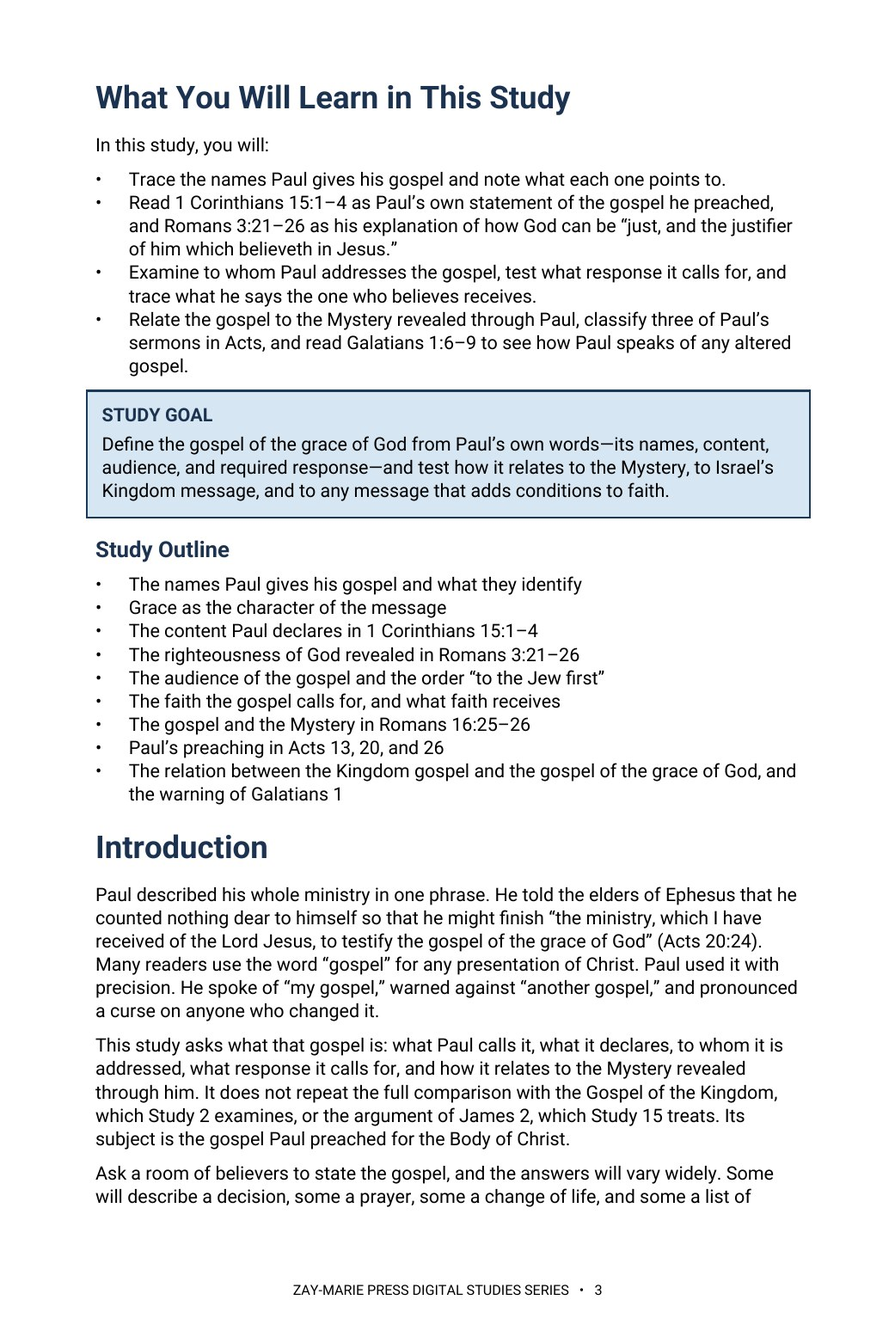
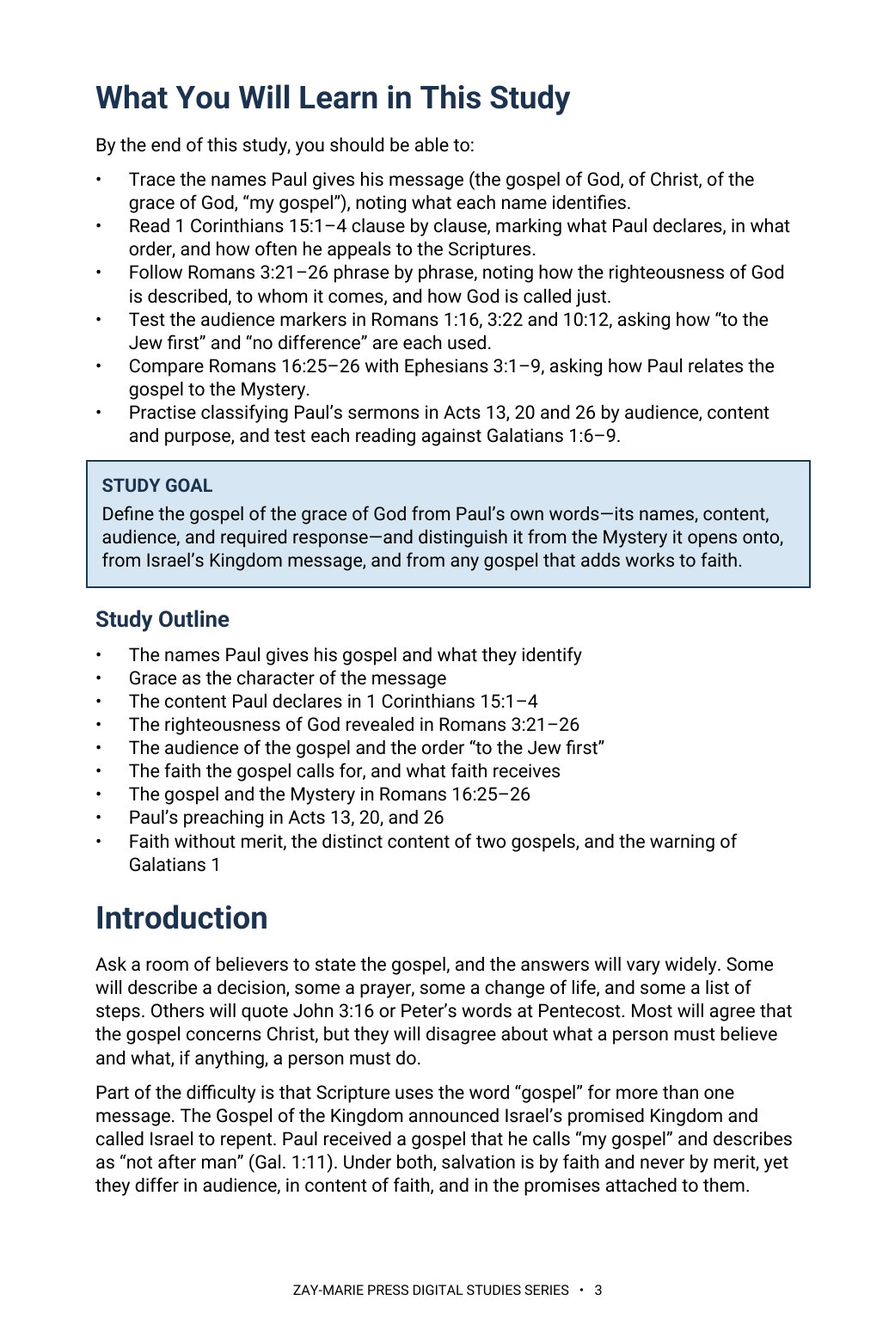
Study 43: rebuild in Roboto at 10 pt (17 pages), Rules 18/19 and structure, previews 2/3/8; trackers v1.72/v1.166
Claude-Session: https://claude.ai/code/session_01KcENxFzE91mCRyTPWhcwnE

Changed region(s): [[0.0922, 0.0922, 0.9222, 0.8912]]

diff --git a/study-43-the-gospel-of-the-grace-of-god.html b/study-43-the-gospel-of-the-grace-of-god.html
@@ -1,5 +1,5 @@
 <!doctype html>
 <html lang="en"><head><meta charset="utf-8"><meta name="viewport" content="width=device-width,initial-scale=1"><title>The Gospel of the Grace of God | Zay-Marie Press</title><meta name="description" content="Paul called it “my gospel.” Define its content from 1 Corinthians 15 and Romans 3, its audience, the faith it calls for, and how it relates to the Mystery revealed through him. Preview Study 43 from Zay-Marie Press."><link rel="stylesheet" href="styles.css?v=20260921-4"><link rel="icon" type="image/png" href="assets/zay-marie-press-favicon.png"><style>
 .study-detail-page{background:#fff;color:#252525}.detail-hero{background:linear-gradient(135deg,#f8f5ec,#e3ece2);padding:58px 0}.detail-hero-grid{display:grid;grid-template-columns:minmax(250px,.72fr) minmax(0,1.28fr);gap:58px;align-items:center}.detail-cover{max-width:390px;margin:auto}.detail-cover img{display:block;width:100%;height:auto;box-shadow:0 14px 36px rgba(8,45,69,.18)}.detail-hero h1{font-size:clamp(2.7rem,5vw,4.7rem);line-height:1.02;margin:8px 0 10px;color:#143823}.detail-subtitle{font-family:Georgia,serif;font-size:1.35rem;font-weight:700;color:#082d45;margin:0 0 7px}.detail-kicker{font-family:Georgia,serif;font-style:italic;font-size:1.05rem;color:#4a4a44;margin:0 0 22px}.detail-copy{font-size:1.08rem;line-height:1.65;max-width:760px}.detail-buyline{display:flex;align-items:center;gap:18px;flex-wrap:wrap;margin-top:25px}.detail-price{font-family:Georgia,serif;font-size:2rem;font-weight:700;color:#143823}.detail-format,.preview-card .page-no{font-family:Arial,sans-serif;font-size:.76rem;font-weight:700;letter-spacing:.1em;text-transform:uppercase;color:#176b3a}.detail-button{display:inline-block;background:#176b3a;color:#fff;padding:13px 22px;font-family:Arial,sans-serif;font-size:.8rem;font-weight:700;letter-spacing:.07em;text-transform:uppercase}.detail-button.pending{opacity:.72;cursor:default}.detail-section{padding:66px 0}.detail-section.soft{background:#f6f7f2}.detail-section.cream{background:#faf8f2}.detail-section h2{color:#143823;margin:6px 0 18px;font-size:clamp(2rem,3.4vw,3rem)}.detail-section .lead{max-width:920px;font-size:1.1rem;line-height:1.62}.study-distinction{max-width:920px;margin-top:28px;margin-bottom:28px;padding:26px 28px;background:#fff;border:1px solid #d8d1bf;border-left:4px solid #b8871c}.study-distinction h3{margin:0 0 10px;color:#143823}.study-distinction p{margin:0 0 14px;line-height:1.62}.study-distinction a{font-family:Arial,sans-serif;font-weight:700;color:#176b3a;text-decoration:none}.study-points{display:grid;grid-template-columns:repeat(3,1fr);gap:18px;margin-top:28px;margin-bottom:28px}.study-point,.scripture-card,.preview-card,.include-item{background:#fff;border:1px solid var(--line);text-align:left}.study-point{border-top:3px solid #176b3a;padding:22px}.study-point h3{color:#143823;margin:0 0 8px;font-size:1.2rem}.study-point p,.scripture-card p,.preview-card p,.include-item p{margin:0;line-height:1.55}.scripture-grid{display:grid;grid-template-columns:repeat(4,1fr);gap:14px;margin-top:24px;margin-bottom:24px}.scripture-card{padding:22px 20px;color:#143823}.scripture-card h3{margin:0 0 9px;font-family:Georgia,serif;font-size:1rem;line-height:1.35}.scripture-card p{font-size:.94rem;color:#45453f}.excerpt{max-width:900px;margin:28px auto;border-left:4px solid #b8871c;padding:10px 0 10px 28px}.excerpt blockquote{font-family:Georgia,serif;font-size:clamp(1.45rem,2.5vw,2rem);line-height:1.45;color:#143823;margin:0 0 16px}.excerpt p{line-height:1.6;margin:0}.preview-grid{display:grid;grid-template-columns:repeat(3,1fr);gap:20px;margin-top:28px;margin-bottom:28px}.preview-card{padding:18px;min-height:210px;box-shadow:0 7px 20px rgba(20,40,25,.05)}.preview-image-link{display:block;margin:0 0 18px}.preview-image-link img{display:block;width:100%;height:auto;border:1px solid #d8d1bf;box-shadow:0 8px 22px rgba(20,40,25,.1);transition:transform .18s ease,box-shadow .18s ease}.preview-image-link:hover img{transform:translateY(-2px);box-shadow:0 11px 28px rgba(20,40,25,.16)}.preview-card h3{color:#143823;margin:8px 0 10px}.preview-instruction{margin:10px 0 0;font-family:Arial,sans-serif;font-size:.78rem;letter-spacing:.04em;color:#5b5b55}.includes-grid{display:grid;grid-template-columns:repeat(4,1fr);gap:14px;margin-top:26px}.include-item{padding:22px 20px;color:#143823}.include-item h3{margin:0 0 9px;font-family:Arial,sans-serif;font-size:.86rem;line-height:1.35;letter-spacing:.02em}.include-item p{font-size:.94rem;color:#45453f}.final-buy{background:#082d45;color:#fff;border-top:4px solid #b8871c;padding:42px 48px;display:grid;grid-template-columns:1fr auto;gap:36px;align-items:center}.final-buy .eyebrow,.final-buy h2,.final-buy .detail-price{color:#fff}.final-buy h2{margin:7px 0 6px}.final-buy p{margin:0}.final-offer{text-align:center}.back-link{display:inline-block;margin-top:18px;color:#143823;font-family:Arial,sans-serif;font-weight:700;text-decoration:none}.preview-lightbox{position:fixed;inset:0;z-index:10000;display:none;align-items:flex-start;justify-content:center;background:rgba(8,22,16,.88);padding:24px;overflow:auto}.preview-lightbox.open{display:flex}.preview-lightbox img{display:block;width:auto;height:auto;max-width:none;box-shadow:0 18px 55px rgba(0,0,0,.4);background:#fff}.preview-lightbox-close{position:fixed;top:18px;right:24px;z-index:10001;width:46px;height:46px;border:1px solid rgba(255,255,255,.65);border-radius:50%;background:rgba(0,0,0,.55);color:#fff;font:32px/1 Arial,sans-serif;cursor:pointer}@media(max-width:900px){.detail-hero-grid{grid-template-columns:1fr;gap:34px}.detail-cover{max-width:330px}.study-points{grid-template-columns:repeat(2,1fr)}.scripture-grid,.includes-grid{grid-template-columns:repeat(2,1fr)}.preview-grid,.final-buy{grid-template-columns:1fr}.final-offer{text-align:left}}@media(max-width:560px){.detail-hero{padding:42px 0}.detail-section{padding:50px 0}.study-points,.scripture-grid,.includes-grid{grid-template-columns:1fr}.final-buy{padding:32px 24px}.detail-buyline{align-items:flex-start;flex-direction:column;gap:8px}.preview-lightbox{padding:58px 10px 24px}.preview-lightbox img{width:100%;max-width:100%;height:auto}} .detail-hero h1{font-size:clamp(2.1rem,4.2vw,3.7rem);line-height:1.08}</style></head><body class="study-detail-page">
-<header class="site-header"><div class="wrap nav"><a class="logo" href="index.html" aria-label="Zay-Marie Press home"><img src="assets/zay-marie-press-logo-hq.png" alt="Zay-Marie Press" width="420" height="238"></a><button class="menu-toggle" type="button" aria-expanded="false" aria-controls="primary-nav">MENU</button><nav aria-label="Primary navigation" class="primary-nav" id="primary-nav"><a href="index.html">HOME</a><a href="books.html">BOOKS</a><a href="series.html">SERIES</a><a class="active" aria-current="page" href="digital-studies.html">DIGITAL STUDIES</a><a href="biblical-hermeneutics-course.html">COURSE</a><a href="about.html">ABOUT</a><a href="resources.html">RESOURCES</a><a href="contact.html">CONTACT</a></nav></div></header><main><section class="detail-hero"><div class="wrap detail-hero-grid"><div class="detail-cover"><picture><source srcset="assets/study-43-cover.webp" type="image/webp"><img src="assets/study-43-cover.jpg" alt="The Gospel of the Grace of God — Study 43 cover"></picture></div><div><div class="eyebrow">STUDY 43 · DIGITAL STUDY</div><h1>The Gospel of the Grace of God</h1><p class="detail-subtitle">Paul’s Gospel: Its Content, Its Audience, and the Faith It Calls For</p><p class="detail-kicker">A Biblical Definition of Paul’s Gospel — Its Names, Its Content, Its Audience, and the Faith It Calls For</p><p class="detail-copy">Paul described his whole ministry in one phrase. He told the elders of Ephesus that he counted nothing dear to himself so that he might finish “the ministry, which I have received of the Lord Jesus, to testify the gospel of the grace of God” (Acts 20:24). Many readers use the word “gospel” for any presentation of Christ. Paul used it with precision. He spoke of “my gospel,” warned against “another gospel,” and pronounced a curse on anyone who changed it.</p><p class="detail-copy">This study asks what that gospel is: what Paul calls it, what it declares, to whom it is addressed, what response it calls for, and how it relates to the Mystery revealed through him. It does not repeat the full comparison with the Gospel of the Kingdom, which Study 2 examines, or the argument of James 2, which Study 15 treats.</p><div class="detail-buyline"><span class="detail-price">$5.99</span><span class="detail-format">Digital PDF · 20 Pages</span><span class="detail-button pending" aria-disabled="true">Checkout Coming Soon</span></div></div></div></section><section class="detail-section"><div class="wrap"><div class="eyebrow">ABOUT THIS STUDY</div><h2>One Gospel, Defined With Precision</h2><p class="lead">Paul spoke of his gospel with exact language: its names, its content, its audience, and the response it calls for. Reading those distinctions in order removes the vagueness that lets “gospel” mean whatever a reader assumes.</p><p class="lead">This study follows Paul’s own words rather than a general definition. It states what he calls the message, what 1 Corinthians 15:1–4 declares as its content, how Romans 3:21–26 explains the righteousness it reveals, and why he treated any addition to faith as grounds for a curse.</p><p class="lead">This is not a study of the Kingdom message Israel was called to believe, which Study 2 defines on its own terms, nor of the Mystery’s full revealed content, which Study 6 identifies separately, nor of when the Body itself began, which Study 11 asks directly. Its task is narrower: to hold Paul’s gospel to his own stated terms rather than a general definition of the word, and to show why treating it as one more variation on a message announced to Israel empties his own distinctions of their force.</p><div class="study-distinction"><h3>How These Studies Relate</h3><p>Study 43 defines the gospel Paul preached for the Body of Christ — its names, its content, its audience, and the faith it calls for.</p><p><a href="study-02-the-gospel-of-the-kingdom.html">Study 2 — The Gospel of the Kingdom</a> Read the Kingdom message Israel was called to believe; this study distinguishes it from Paul’s gospel without merging their audiences, content, or programmatic authority.</p><p><a href="study-06-the-mystery-revealed-through-paul.html">Study 6 — The Mystery Revealed Through Paul</a> Examine the previously hidden truth Paul was given to reveal; this study relates that Mystery to the gospel he preached without collapsing the two.</p><p><a href="study-11-the-beginning-of-the-body-of-christ.html">Study 11 — The Beginning of the Body of Christ</a> Ask when the Body began; this study identifies the gospel by which its members are justified, reconciled, and placed into that Body.</p><p class="connection-guide-link"><a href="study-connections.html#study-43">Explore the full connection guide for Study 43 →</a></p></div></div></section><section class="detail-section soft"><div class="wrap"><div class="eyebrow">WHAT YOU’LL STUDY</div><h2>Define the Gospel From Paul’s Own Words</h2><div class="study-points"><div class="study-point"><h3>The Names Paul Gives It</h3><p>See what “the gospel of God,” “the gospel of Christ,” “the gospel of the grace of God,” and “my gospel” each identify.</p></div><div class="study-point"><h3>Grace as Its Character</h3><p>Define grace by contrast with debt, and test what that definition means for every earned addition.</p></div><div class="study-point"><h3>Its Content: 1 Corinthians 15</h3><p>State the three facts Paul names as of first importance: died, buried, rose again.</p></div><div class="study-point"><h3>Its Ground: Romans 3:21–26</h3><p>See how God is both just and the justifier through the propitiation in Christ’s blood.</p></div><div class="study-point"><h3>Its Audience and Its Faith</h3><p>Read to whom Paul addresses the gospel, what response it calls for, and what he says the one who believes receives.</p></div><div class="study-point"><h3>The Gospel and the Mystery</h3><p>Test how the gospel relates to the Mystery revealed through Paul.</p></div></div></div></section><section class="detail-section cream"><div class="wrap"><div class="eyebrow">KEY SCRIPTURES</div><h2>Examine the Passages for Yourself</h2><div class="scripture-grid"><div class="scripture-card"><h3>Acts 20:24</h3><p>Paul names the message he counted his whole ministry to testify: “the gospel of the grace of God.”</p></div><div class="scripture-card"><h3>1 Corinthians 15:3–4</h3><p>Christ died, was buried, and rose again “according to the scriptures” — the gospel’s content stated in three clauses.</p></div><div class="scripture-card"><h3>Romans 3:21–26</h3><p>The righteousness of God is manifested, so that He is both just and the justifier of the one who believes.</p></div><div class="scripture-card"><h3>Romans 1:16</h3><p>“To the Jew first, and also to the Greek” — the gospel’s audience and the order of its address.</p></div><div class="scripture-card"><h3>Romans 4:5</h3><p>“To him that worketh not, but believeth” — faith alone, without works, counted for righteousness.</p></div><div class="scripture-card"><h3>Ephesians 1:13–14</h3><p>The one who believes is sealed with the Holy Spirit, the earnest of the inheritance.</p></div><div class="scripture-card"><h3>Romans 16:25–26</h3><p>The gospel opens onto “the revelation of the mystery” made known through Paul.</p></div><div class="scripture-card"><h3>Galatians 1:6–9</h3><p>Paul’s warning against preaching “another gospel” to the churches of Galatia.</p></div></div></div></section><section class="detail-section"><div class="wrap"><div class="eyebrow">FROM THE STUDY</div><h2>Foretold, Yet Hidden</h2><div class="excerpt"><blockquote>“Foretold facts ≠ the hidden purpose revealed through Paul.”</blockquote><p>The gospel’s content was written beforehand in the Law and the Prophets. The Mystery Paul was given to reveal is a distinct truth, previously hidden and revealed through him — related in subject, but never merged.</p></div></div></section><section class="detail-section soft"><div class="wrap"><div class="eyebrow">A LOOK INSIDE</div><h2>Preview the Study Before You Purchase</h2><p class="preview-instruction">Click any page to enlarge it for reading.</p><div class="preview-grid"><div class="preview-card"><a class="preview-image-link" data-preview-lightbox href="assets/study-43-page-2.jpg"><img src="assets/study-43-page-2.jpg" alt="Study 43 interior preview — page 2, table of contents"/></a><div class="page-no">Page 2</div><h3>Table of Contents</h3><p>See the full structure of the study, from the introduction through the final synthesis.</p></div><div class="preview-card"><a class="preview-image-link" data-preview-lightbox href="assets/study-43-page-3.jpg"><img src="assets/study-43-page-3.jpg" alt="Study 43 interior preview — page 3, what you will learn"/></a><div class="page-no">Page 3</div><h3>What You Will Learn</h3><p>See the study’s goals, controls, and central question at a glance.</p></div><div class="preview-card"><a class="preview-image-link" data-preview-lightbox href="assets/study-43-page-10.jpg"><img src="assets/study-43-page-10.jpg" alt="Study 43 interior preview — page 10, the gospel’s audience: no difference and “to the Jew first”"/></a><div class="page-no">Page 10</div><h3>To Whom the Gospel Is Addressed</h3><p>See how the study reads “no difference” and “to the Jew first” in Paul’s own words.</p></div></div></div></section><section class="detail-section"><div class="wrap"><div class="eyebrow">WHAT’S INCLUDED</div><h2>A Focused Study Built for<br>Understanding and Teaching</h2><div class="includes-grid"><div class="include-item"><h3>20-Page In-Depth Biblical Study</h3><p>A careful definition of the gospel Paul preached for the Body of Christ.</p></div><div class="include-item"><h3>11 Core Teaching Sections</h3><p>Progress from the gospel’s names through its content, ground, audience, and its relation to the Mystery.</p></div><div class="include-item"><h3>Five Reference Tables</h3><p>Compare the names of the gospel, test common additions to faith against Paul’s own words, and read key passages side by side in the KJV.</p></div><div class="include-item"><h3>16 Review Questions</h3><p>Test the study’s distinctions concerning content, audience, faith, and the Mystery.</p></div><div class="include-item"><h3>Teaching Outline</h3><p>A ready ten-point framework for teaching the gospel of the grace of God with precision.</p></div><div class="include-item"><h3>Guided Further Study</h3><p>Return to the gospel’s names, its content, its audience, and the Mystery with directed questions.</p></div><div class="include-item"><h3>Scripture-Tracing Exercise</h3><p>Trace the gospel’s key terms across Paul’s letters in their own context.</p></div><div class="include-item"><h3>Final Synthesis Exercise</h3><p>Bring the evidence together in one coherent, Scripture-based explanation.</p></div></div></div></section><section class="detail-section cream"><div class="wrap"><div class="final-buy"><div><div class="eyebrow">STUDY 43 · DIGITAL STUDY</div><h2>The Gospel of the Grace of God</h2><p>20-page digital PDF · For personal use</p></div><div class="final-offer"><div class="detail-price">$5.99</div><span class="detail-button pending" aria-disabled="true">Checkout Coming Soon</span></div></div><a class="back-link" href="digital-studies.html">← Back to All Digital Studies</a></div></section><section class="study-method-course-bridge"><div class="wrap"><div class="study-method-course-panel"><div><div class="eyebrow">BUILD THE INTERPRETIVE METHOD</div><h2>Want More Than a Focused Study?</h2><p>Digital Studies examine particular biblical subjects and difficult passages. The 40-lesson Biblical Hermeneutics course teaches a complete, repeatable method for establishing meaning in context, determining proper assignment, and making responsible application.</p></div><a class="btn btn-primary" href="biblical-hermeneutics-course.html">BIBLICAL HERMENEUTICS COURSE</a></div></div></section></main>
+<header class="site-header"><div class="wrap nav"><a class="logo" href="index.html" aria-label="Zay-Marie Press home"><img src="assets/zay-marie-press-logo-hq.png" alt="Zay-Marie Press" width="420" height="238"></a><button class="menu-toggle" type="button" aria-expanded="false" aria-controls="primary-nav">MENU</button><nav aria-label="Primary navigation" class="primary-nav" id="primary-nav"><a href="index.html">HOME</a><a href="books.html">BOOKS</a><a href="series.html">SERIES</a><a class="active" aria-current="page" href="digital-studies.html">DIGITAL STUDIES</a><a href="biblical-hermeneutics-course.html">COURSE</a><a href="about.html">ABOUT</a><a href="resources.html">RESOURCES</a><a href="contact.html">CONTACT</a></nav></div></header><main><section class="detail-hero"><div class="wrap detail-hero-grid"><div class="detail-cover"><picture><source srcset="assets/study-43-cover.webp" type="image/webp"><img src="assets/study-43-cover.jpg" alt="The Gospel of the Grace of God — Study 43 cover"></picture></div><div><div class="eyebrow">STUDY 43 · DIGITAL STUDY</div><h1>The Gospel of the Grace of God</h1><p class="detail-subtitle">Paul’s Gospel: Its Content, Its Audience, and the Faith It Calls For</p><p class="detail-kicker">A Biblical Definition of Paul’s Gospel — Its Names, Its Content, Its Audience, and the Faith It Calls For</p><p class="detail-copy">Paul described his whole ministry in one phrase. He told the elders of Ephesus that he counted nothing dear to himself so that he might finish “the ministry, which I have received of the Lord Jesus, to testify the gospel of the grace of God” (Acts 20:24). Many readers use the word “gospel” for any presentation of Christ. Paul used it with precision. He spoke of “my gospel,” warned against “another gospel,” and pronounced a curse on anyone who changed it.</p><p class="detail-copy">This study asks what that gospel is: what Paul calls it, what it declares, to whom it is addressed, what response it calls for, and how it relates to the Mystery revealed through him. It does not repeat the full comparison with the Gospel of the Kingdom, which Study 2 examines, or the argument of James 2, which Study 15 treats.</p><div class="detail-buyline"><span class="detail-price">$5.99</span><span class="detail-format">Digital PDF · 17 Pages</span><span class="detail-button pending" aria-disabled="true">Checkout Coming Soon</span></div></div></div></section><section class="detail-section"><div class="wrap"><div class="eyebrow">ABOUT THIS STUDY</div><h2>One Gospel, Defined With Precision</h2><p class="lead">Paul spoke of his gospel with exact language: its names, its content, its audience, and the response it calls for. Reading those distinctions in order removes the vagueness that lets “gospel” mean whatever a reader assumes.</p><p class="lead">This study follows Paul’s own words rather than a general definition. It states what he calls the message, what 1 Corinthians 15:1–4 declares as its content, how Romans 3:21–26 explains the righteousness it reveals, and why he treated any addition to faith as grounds for a curse.</p><p class="lead">This is not a study of the Kingdom message Israel was called to believe, which Study 2 defines on its own terms, nor of the Mystery’s full revealed content, which Study 6 identifies separately, nor of when the Body itself began, which Study 11 asks directly. Its task is narrower: to hold Paul’s gospel to his own stated terms rather than a general definition of the word, and to show why treating it as one more variation on a message announced to Israel empties his own distinctions of their force.</p><div class="study-distinction"><h3>How These Studies Relate</h3><p>Study 43 defines the gospel Paul preached for the Body of Christ — its names, its content, its audience, and the faith it calls for.</p><p><a href="study-02-the-gospel-of-the-kingdom.html">Study 2 — The Gospel of the Kingdom</a> Read the Kingdom message Israel was called to believe; this study distinguishes it from Paul’s gospel without merging their audiences, content, or programmatic authority.</p><p><a href="study-06-the-mystery-revealed-through-paul.html">Study 6 — The Mystery Revealed Through Paul</a> Examine the previously hidden truth Paul was given to reveal; this study relates that Mystery to the gospel he preached without collapsing the two.</p><p><a href="study-11-the-beginning-of-the-body-of-christ.html">Study 11 — The Beginning of the Body of Christ</a> Ask when the Body began; this study identifies the gospel by which its members are justified, reconciled, and placed into that Body.</p><p class="connection-guide-link"><a href="study-connections.html#study-43">Explore the full connection guide for Study 43 →</a></p></div></div></section><section class="detail-section soft"><div class="wrap"><div class="eyebrow">WHAT YOU’LL STUDY</div><h2>Define the Gospel From Paul’s Own Words</h2><div class="study-points"><div class="study-point"><h3>The Names Paul Gives It</h3><p>See what “the gospel of God,” “the gospel of Christ,” “the gospel of the grace of God,” and “my gospel” each identify.</p></div><div class="study-point"><h3>Grace as Its Character</h3><p>Define grace by contrast with debt, and test what that definition means for every earned addition.</p></div><div class="study-point"><h3>Its Content: 1 Corinthians 15</h3><p>State the three facts Paul names as of first importance: died, buried, rose again.</p></div><div class="study-point"><h3>Its Ground: Romans 3:21–26</h3><p>See how God is both just and the justifier through the propitiation in Christ’s blood.</p></div><div class="study-point"><h3>Its Audience and Its Faith</h3><p>Read to whom Paul addresses the gospel, what response it calls for, and what he says the one who believes receives.</p></div><div class="study-point"><h3>The Gospel and the Mystery</h3><p>Test how the gospel relates to the Mystery revealed through Paul.</p></div></div></div></section><section class="detail-section cream"><div class="wrap"><div class="eyebrow">KEY SCRIPTURES</div><h2>Examine the Passages for Yourself</h2><div class="scripture-grid"><div class="scripture-card"><h3>Acts 20:24</h3><p>Paul names the message he counted his whole ministry to testify: “the gospel of the grace of God.”</p></div><div class="scripture-card"><h3>1 Corinthians 15:3–4</h3><p>Christ died, was buried, and rose again “according to the scriptures” — the gospel’s content stated in three clauses.</p></div><div class="scripture-card"><h3>Romans 3:21–26</h3><p>The righteousness of God is manifested, so that He is both just and the justifier of the one who believes.</p></div><div class="scripture-card"><h3>Romans 1:16</h3><p>“To the Jew first, and also to the Greek” — the gospel’s audience and the order of its address.</p></div><div class="scripture-card"><h3>Romans 4:5</h3><p>“To him that worketh not, but believeth” — faith alone, without works, counted for righteousness.</p></div><div class="scripture-card"><h3>Ephesians 1:13–14</h3><p>The one who believes is sealed with the Holy Spirit, the earnest of the inheritance.</p></div><div class="scripture-card"><h3>Romans 16:25–26</h3><p>The gospel opens onto “the revelation of the mystery” made known through Paul.</p></div><div class="scripture-card"><h3>Galatians 1:6–9</h3><p>Paul’s warning against preaching “another gospel” to the churches of Galatia.</p></div></div></div></section><section class="detail-section"><div class="wrap"><div class="eyebrow">FROM THE STUDY</div><h2>Foretold, Yet Hidden</h2><div class="excerpt"><blockquote>“Foretold facts ≠ the hidden purpose revealed through Paul.”</blockquote><p>The gospel’s content was written beforehand in the Law and the Prophets. The Mystery Paul was given to reveal is a distinct truth, previously hidden and revealed through him — related in subject, but never merged.</p></div></div></section><section class="detail-section soft"><div class="wrap"><div class="eyebrow">A LOOK INSIDE</div><h2>Preview the Study Before You Purchase</h2><p class="preview-instruction">Click any page to enlarge it for reading.</p><div class="preview-grid"><div class="preview-card"><a class="preview-image-link" data-preview-lightbox href="assets/study-43-page-2.jpg"><img src="assets/study-43-page-2.jpg" alt="Study 43 interior preview — page 2, table of contents"/></a><div class="page-no">Page 2</div><h3>Table of Contents</h3><p>See the full structure of the study, from the introduction through the final synthesis.</p></div><div class="preview-card"><a class="preview-image-link" data-preview-lightbox href="assets/study-43-page-3.jpg"><img src="assets/study-43-page-3.jpg" alt="Study 43 interior preview — page 3, what you will learn"/></a><div class="page-no">Page 3</div><h3>What You Will Learn</h3><p>See the study’s goals, controls, and central question at a glance.</p></div><div class="preview-card"><a class="preview-image-link" data-preview-lightbox href="assets/study-43-page-8.jpg"><img src="assets/study-43-page-8.jpg" alt="Study 43 interior preview — page 8, the gospel’s audience: no difference and “to the Jew first”"/></a><div class="page-no">Page 8</div><h3>To Whom the Gospel Is Addressed</h3><p>See how the study reads “no difference” and “to the Jew first” in Paul’s own words.</p></div></div></div></section><section class="detail-section"><div class="wrap"><div class="eyebrow">WHAT’S INCLUDED</div><h2>A Focused Study Built for<br>Understanding and Teaching</h2><div class="includes-grid"><div class="include-item"><h3>17-Page In-Depth Biblical Study</h3><p>A careful definition of the gospel Paul preached for the Body of Christ.</p></div><div class="include-item"><h3>11 Core Teaching Sections</h3><p>Progress from the gospel’s names through its content, ground, audience, and its relation to the Mystery.</p></div><div class="include-item"><h3>Five Reference Tables</h3><p>Compare the names of the gospel, test common additions to faith against Paul’s own words, and read key passages side by side in the KJV.</p></div><div class="include-item"><h3>16 Review Questions</h3><p>Test the study’s distinctions concerning content, audience, faith, and the Mystery.</p></div><div class="include-item"><h3>Teaching Outline</h3><p>A ready ten-point framework for teaching the gospel of the grace of God with precision.</p></div><div class="include-item"><h3>Guided Further Study</h3><p>Return to the gospel’s names, its content, its audience, and the Mystery with directed questions.</p></div><div class="include-item"><h3>Scripture-Tracing Exercise</h3><p>Trace the gospel’s key terms across Paul’s letters in their own context.</p></div><div class="include-item"><h3>Final Synthesis Exercise</h3><p>Bring the evidence together in one coherent, Scripture-based explanation.</p></div></div></div></section><section class="detail-section cream"><div class="wrap"><div class="final-buy"><div><div class="eyebrow">STUDY 43 · DIGITAL STUDY</div><h2>The Gospel of the Grace of God</h2><p>17-page digital PDF · For personal use</p></div><div class="final-offer"><div class="detail-price">$5.99</div><span class="detail-button pending" aria-disabled="true">Checkout Coming Soon</span></div></div><a class="back-link" href="digital-studies.html">← Back to All Digital Studies</a></div></section><section class="study-method-course-bridge"><div class="wrap"><div class="study-method-course-panel"><div><div class="eyebrow">BUILD THE INTERPRETIVE METHOD</div><h2>Want More Than a Focused Study?</h2><p>Digital Studies examine particular biblical subjects and difficult passages. The 40-lesson Biblical Hermeneutics course teaches a complete, repeatable method for establishing meaning in context, determining proper assignment, and making responsible application.</p></div><a class="btn btn-primary" href="biblical-hermeneutics-course.html">BIBLICAL HERMENEUTICS COURSE</a></div></div></section></main>
 <div class="preview-lightbox" id="preview-lightbox" role="dialog" aria-modal="true" aria-label="Expanded study preview"><button class="preview-lightbox-close" type="button" aria-label="Close preview">×</button><img id="preview-lightbox-image" alt=""></div><footer class="site-footer"><div class="wrap footer-grid"><div class="footer-about"><h3>Zay-Marie Press</h3><p class="footer-tagline"><em>Where the Bible Means What It Says.</em></p><p>Zay-Marie Press is a Christian theological publisher dedicated to producing doctrinally precise, carefully structured biblical resources that equip pastors, teachers, and serious students with clarity, depth, and Scripture-anchored truth.</p><p><a href="https://zaymariepress.com">zaymariepress.com</a><br><a href="mailto:info@zaymariepress.com">info@zaymariepress.com</a></p></div><div class="footer-column"><h3>Explore</h3><div class="footer-links-stacked"><a href="books.html">Books</a><br><a href="series.html">Series</a><br><a href="biblical-hermeneutics-course.html">Course</a><br><a href="digital-studies.html">Digital Studies</a><br><a href="resources.html">Resources</a><br><a href="bible-book-summaries.html">Bible Book Summaries</a><br><a href="doctrinal-packets.html">Doctrinal Packets</a><br><a href="historical-drift.html">Historical Drift</a><br><a href="about.html">About</a><br><a href="contact.html">Contact</a></div></div><div class="footer-column"><h3>Reader Support</h3><div class="footer-links-stacked"><a href="reader-support.html#faq">FAQ</a><br><a href="reader-support.html#shipping-returns">Shipping &amp; Returns</a><br><a href="reader-support.html#digital-downloads">Digital Downloads</a><br><a href="reader-support.html#contact-support">Contact Support</a></div></div><div class="footer-column"><h3>Acts Overlap</h3><p><strong>Acts Overlap Theology Series</strong></p><p><em>Two Distinct Streams. One Overlap.</em></p><p><a href="series.html">Series Overview</a></p></div></div><div class="wrap footer-bottom">© 2026 Zay-Marie Press. All rights reserved.</div></footer><script src="site.js"></script><script>const lightbox=document.getElementById('preview-lightbox'),lightboxImage=document.getElementById('preview-lightbox-image'),closeLightbox=()=>{lightbox.classList.remove('open');lightboxImage.src='';};document.querySelectorAll('[data-preview-lightbox]').forEach(link=>link.addEventListener('click',event=>{event.preventDefault();lightboxImage.src=link.href;lightboxImage.alt=link.querySelector('img').alt;lightbox.classList.add('open');}));document.querySelector('.preview-lightbox-close').addEventListener('click',closeLightbox);lightbox.addEventListener('click',event=>{if(event.target===lightbox)closeLightbox();});document.addEventListener('keydown',event=>{if(event.key==='Escape')closeLightbox();});</script></body></html>

diff --git a/site.js b/site.js
@@ -62,7 +62,7 @@ const resourceModal=document.querySelector('#resource-modal'), resourceModalTitl
 if(resourceModal&&resourceModalTriggers.length){const closeResourceModal=()=>{resourceModal.hidden=true;document.body.classList.remove('resource-modal-open');lastResourceTrigger?.focus();};resourceModalTriggers.forEach(trigger=>trigger.addEventListener('click',()=>{lastResourceTrigger=trigger;if(resourceModalTitle)resourceModalTitle.textContent=trigger.dataset.title||'Resource';if(resourceModalDescription)resourceModalDescription.textContent=trigger.dataset.description||'';if(resourceModalLink){resourceModalLink.href=trigger.dataset.href||'#';resourceModalLink.textContent=trigger.dataset.linkText||'OPEN RESOURCE';}resourceModal.hidden=false;document.body.classList.add('resource-modal-open');resourceModalClose?.focus();}));resourceModalClose?.addEventListener('click',closeResourceModal);resourceModal.addEventListener('click',e=>{if(e.target===resourceModal)closeResourceModal();});document.addEventListener('keydown',e=>{if(e.key==='Escape'&&!resourceModal.hidden)closeResourceModal();});}
 
 /* Display the verified final-PDF page count at the primary purchase decision point. */
-const digitalStudyPageCounts={1:17,2:19,3:16,4:18,5:16,6:16,7:14,8:13,9:16,10:20,11:15,12:15,13:19,14:15,15:15,16:16,17:18,18:18,19:16,20:16,21:17,22:16,23:14,24:16,25:17,26:16,27:16,28:16,29:19,30:17,31:18,32:19,33:18,34:16,35:16,36:16,37:16,38:16,39:16,40:16,41:16,42:16,43:20,44:16,45:16,46:20,47:16,48:16,49:17,50:16,51:16,52:19,53:19,54:16,55:20,56:20,57:20,58:19,59:20,60:15,61:16,62:16,63:16,64:16,65:16,66:16,67:16,68:16,69:16,70:16,71:16};
+const digitalStudyPageCounts={1:17,2:19,3:16,4:18,5:16,6:16,7:14,8:13,9:16,10:20,11:15,12:15,13:19,14:15,15:15,16:16,17:18,18:18,19:16,20:16,21:17,22:16,23:14,24:16,25:17,26:16,27:16,28:16,29:19,30:17,31:18,32:19,33:18,34:16,35:16,36:16,37:16,38:16,39:16,40:16,41:16,42:16,43:17,44:16,45:16,46:20,47:16,48:16,49:17,50:16,51:16,52:19,53:19,54:16,55:20,56:20,57:20,58:19,59:20,60:15,61:16,62:16,63:16,64:16,65:16,66:16,67:16,68:16,69:16,70:16,71:16};
 const digitalStudyMatch=window.location.pathname.match(/\/study-(\d+)-/i);
 const digitalStudyFormat=document.querySelector('.detail-hero .detail-format');
 if(digitalStudyMatch&&digitalStudyFormat){const studyNumber=Number(digitalStudyMatch[1]),pageCount=digitalStudyPageCounts[studyNumber];if(pageCount)digitalStudyFormat.textContent=`Digital PDF · ${pageCount} Pages`;}

diff --git a/CLAUDE.md b/CLAUDE.md
@@ -23,7 +23,7 @@ These are kept in the repo at `controlling-documents/` and are the current versi
 - As of v1.50 (publisher directive, 2026-10-03), the **What You Will Learn in This Study** section is always bulleted, never set as running paragraphs, written into this file in the same pass (Master Standard Section 3 item 4, Section 6 structure line, Section 22): a list of bullet points, each describing one process, textual marker or interpretive discipline the reader will practice (Section 17 still governs what they may say); at most one short lead-in line may stand above the bullets (for example, “By the end of this study, you should be able to:”); the Study Goal callout and the Study Outline keep their own forms. It governs every new study and every study rebuilt or retrofitted from now on; earlier studies take it when reopened or when the publisher directs. In every study check (Step 1), report whether the section is bulleted. First applied to Study 43.
 **`controlling-documents/Digital_Studies_Relationship_Map_v1.39.md`** — records each study's distinct subject, its related studies, the eight priced six-study collections, the Paul's Missionary Journeys cross-reference map, and the five primary catalog categories (currently version 1.39, covers Studies 1–71; update it as new studies publish, bump the version number, rename the file to match, and log the change in its own version-history table — mirroring the Master Standard's `_vX.Y` filename convention). Check a proposed topic against it before recommending or writing a new study. (2026-09-28: the file was missing from this repo despite this note referencing it; replaced from the publisher's copy and bumped v1.15→v1.25 in the same pass. If this note ever again points to a version not present under `controlling-documents/`, ask the publisher for a copy rather than proceeding without the check.)
 - **`controlling-documents/Digital_Studies_Category_Standard_v1.1.md`** — FINAL and binding (publisher, 2026-10-01): the rules for the five primary catalog categories (Foundations, Israel & Prophecy, Body of Christ, Passages, Doctrinal Themes), the ordered decision procedure for new studies, the precedents, all 71 fixed assignments, and the cover-label form for each category. Read it before placing any card or cover label. Do not ask the publisher where a study belongs; apply the procedure and state the result. Only the publisher changes a ruling; then bump this Standard's version and filename, re-letter the cover, and update the Relationship Map.
-- **`controlling-documents/Doctrinal_Upgrade_Retrofit_Plan_v1.71.md`** — working tracker for retrofitting Studies 1–59 to the 2026-10-02 doctrinal upgrade (Framework/PAM v1.1, Master Standard v1.40, Rules 7–17): withdrawn-wording search keys, impact tiers, waves and the per-study method. Read it before continuing the retrofit in any session; update status, bump the version and rename the file as work proceeds.
+- **`controlling-documents/Doctrinal_Upgrade_Retrofit_Plan_v1.72.md`** — working tracker for retrofitting Studies 1–59 to the 2026-10-02 doctrinal upgrade (Framework/PAM v1.1, Master Standard v1.40, Rules 7–17): withdrawn-wording search keys, impact tiers, waves and the per-study method. Read it before continuing the retrofit in any session; update status, bump the version and rename the file as work proceeds.
 - **`controlling-documents/Doctrinal_Packet_Standard_v0.3.md`** — Doctrinal Packet Standard (DRAFT; §7 approved). Governs the separate Doctrinal Packets product strand (5-page interpretive PDFs per Bible book — a print-friendly cover as page 1 plus 4 content pages, $2.99, KJV, pilot: Genesis, live at `packet-genesis.html`, hub `doctrinal-packets.html`; site pages say "5 Pages", cover styles live in `packets.css`, Old Testament blue and New Testament soft pale green, hub listed in Bible order). **Preview rule (publisher directive, 2026-09-29, packets only):** previews show about one page's worth in two cropped views (top of page 1 through the anchor texts; the chart section) — never the exegesis, architecture, Mystery contrast, logic chain, outline, or closing. Master Standard §16/§17 still govern Digital Studies. Bump the version and rename the file as the Standard is finalized.
 - **`controlling-documents/Preview_Page_Spoiler_Retrofit_Audit_v1.4.md`** — working tracker for the Studies 1–60 preview-page conclusion-spoiler retrofit (see the section below). Read it before continuing that audit in any session; update its status fields and changelog, bump the version, and rename the file to match as the audit proceeds — same `_vX.Y` convention as the other controlling documents. As of v1.1, the website-side half was DONE: all 60 studies' "What You'll Study" text was judged against the rule (methodology documented in the file) and 22 points across 11 studies were rewritten and pushed; an unrelated Study 22 content bug (Study 21's content had leaked into it) was also found and fixed. As of v1.2, the publisher supplied Studies 1–60's interior production PDFs and the interior-PDF half was also surveyed (read-only): 10 studies (37, 41, 45, 47, 48, 49, 51, 52, 53, 54) were found to have at least one interior "What You Will Learn" violation, 50 studies were confirmed compliant, and the orphaned `assets/study-45-sanctification-under-grace.docx` (removed from the repo per the publisher in v1.0) was confirmed word-for-word identical to Study 45's actual production interior PDF content. As of v1.3, the publisher supplied editable DOCX sources for all 10 violating studies; all 15 violating points were rewritten and approved, delivered as corrected final PDFs, and — along the way — a second defect was found and fixed (Studies 47 and 48's source DOCX still had an unintegrated cover placeholder despite both being long-published live with real covers; fixed by inserting the existing approved cover art). The website's "What You Will Learn" preview image (`study-NN-page-3.jpg`) was regenerated from the corrected content for all 10 studies and pushed to `main` (commit `cea1859`), verified against a fresh clone. **The website side of this audit is now fully compliant for all 60 studies.** Outstanding: the publisher's purchasable interior PDF files themselves have corrected versions delivered, but distribution to existing purchasers was decided by the publisher on 2026-09-29: silent swap of the files behind the existing downloads, no reissue notice (recorded in the v1.4 changelog entry; the product files are not in this repo).
 

diff --git a/controlling-documents/Doctrinal_Upgrade_Retrofit_Plan_v1.72.md b/controlling-documents/Doctrinal_Upgrade_Retrofit_Plan_v1.72.md
@@ -164,3 +164,4 @@ Working tracker for correcting published studies to the Framework/PAM v1.1, Mast
 - v1.69 (2026-10-03): Study 56 rebuilt at 10 pt (Roboto, current page) from the publisher’s older FINAL DOCX with the 2026-10-02 retrofit re-applied (1 Peter and Hebrews "The Framework does not assign …" lines converted, Hebrews to the covenant-it-quotes form; Colossians letter line added after the Colossians 3:24 paragraph; withdrawn Galatians 3 "participate spiritually" wording replaced by the standing Galatians 3 sentence; withdrawn "gathered into the Body" overlap sentence (§8, §9) replaced by the standing overlap sentence; withdrawn clarifier in Ephesians 1 (§6) replaced by the standing remnant/Body sentence; "and not a transfer" added to the Acts 28 wording in §2 and §9; "this framework" reworded to "these distinctions"). 20 pages (was 16). `site.js` 56:20; page-count text 16→20 (hero, meta description, buy panel, What’s Included 15→19 interior); previews 2, 3 and 4 re-rendered at 1041×1562. Next: 10 pt resets for 57, 58 (DOCX on hand); 43 and 54 need DOCX; 42, 44, 45, 47, 48, 49, 50, 51 need Roboto finals or a rebuild.
 - v1.70 (2026-10-03): Study 57 rebuilt at 10 pt (Roboto, current page) from the publisher’s older FINAL DOCX with the 2026-10-02 retrofit re-applied (2 Timothy "The Framework does not assign …" line converted; "Acts Overlap framework" working term removed in the Introduction and the third-pass Investigation; withdrawn "gathered into the Body" overlap sentence (§7) replaced by the standing overlap sentence; "and not a transfer" added to the Acts 28 wording in the Introduction and §7; Romans 11 four boundaries and triad added after the Romans 11:25 line in the third pass). 20 pages (was 16); the imprint first fell alone on page 20 and was fixed with layout-only keep-together (the Final Synthesis heading and paragraph move to page 20 with it; TOC 19→20 for that entry). `site.js` 57:20; page-count text 16→20 (hero, meta description, buy panel, What’s Included 15→19 interior); previews 2, 3 and 7 re-rendered at 1041×1562. Next: 10 pt reset for 58 (DOCX on hand); 43 and 54 need DOCX; 42, 44, 45, 47, 48, 49, 50, 51 need Roboto finals or a rebuild.
 - v1.71 (2026-10-03): Study 58 rebuilt at 10 pt (Roboto, current page) from the publisher’s older FINAL DOCX with the 2026-10-02 retrofit re-applied ("this framework" / "Acts Overlap framework" working terms removed in §6, §8 (twice) and the Study Summary; withdrawn "gathered into the Body" overlap sentence (§8) replaced by the standing overlap sentence; "and not a transfer" added to the Acts 28 wording in the Introduction, §8 (twice) and the Investigation; Colossians letter line added at the end of §4; generic "interpretive framework" / "prophetic framework of Acts 2" kept as plain English). 19 pages (was 16). `site.js` 58:19; page-count text 16→19 (hero, meta description, buy panel, What’s Included 15→18 interior); previews 2, 3 and 8 re-rendered at 1041×1562 (third moved from page 7 to 8: the Colossians stewardship section; `study-58-page-7.jpg` removed). All Roboto DOCX on hand (46, 52, 53, 55, 56, 57, 58) are now at 10 pt. Next: 43 and 54 need DOCX; 42, 44, 45, 47, 48, 49, 50, 51 need Roboto finals or a rebuild; 62–70 first retrofit; the 24 older-page studies.
+- v1.72 (2026-10-03): Study 43 rebuilt in Roboto at 10 pt on the current page from the publisher’s newest DOCX (Plex Serif master; no 'does not assign' lines) and approved Rule 19 wording. Rule 19: every "finished work" / "shared ground" place replaced (Introduction, Section 2, Section 10 opening, Key Distinctions, Study Outline and Teaching Outline bullets) with "Salvation is always by faith, never by merit; the content of faith is what God revealed within each program" and the Prophecy-saints/Body contrast; Section 10 retitled "Faith Without Merit, Distinct Messages"; "Faith without merit ≠ the same gospel". Rule 18: full standing sentence added after the "to the Jew first" paragraph (§5) and the short form after the Acts 13 paragraph (§9); Acts 28 "not abolition and not a transfer" in §5. "Acts Overlap Theology supplies the controls" and two "framework" labels reworded. Structure to the Study 52 standard: bulleted What You Will Learn with the lead-in (new bullets drafted from the text, approved), seven inline callouts reduced to five boxed (Content and Righteousness demoted to body paragraphs with bold run-in leads), Roman-numeral Teaching Outline renumbered. 17 pages (was 20). `site.js` 43:17; page-count text 20→17; previews 2, 3 and 8 (third moved from page 10 to 8: the audience section; `study-43-page-10.jpg` removed). Imprint orphan fixed with layout-only keep-together. Next: Study 54 (DOCX received); 42, 44, 45, 47, 48, 49, 50, 51 need Roboto finals or a rebuild; 62–70 first retrofit; the 24 older-page studies.

diff --git a/controlling-documents/Digital_Studies_PAM_Audit_v1.166.md b/controlling-documents/Digital_Studies_PAM_Audit_v1.166.md
@@ -395,3 +395,4 @@ Study 15 PDF not yet supplied. Typography: none of Studies 2, 3, 6, 8 is in EB G
 - v1.163 (2026-10-03): Study 56 rebuilt at 10 pt, 20 pages (see Retrofit Plan v1.69).
 - v1.164 (2026-10-03): Study 57 rebuilt at 10 pt, 20 pages (see Retrofit Plan v1.70).
 - v1.165 (2026-10-03): Study 58 rebuilt at 10 pt, 19 pages (see Retrofit Plan v1.71).
+- v1.166 (2026-10-03): Study 43 rebuilt in Roboto at 10 pt, 17 pages (see Retrofit Plan v1.72).
